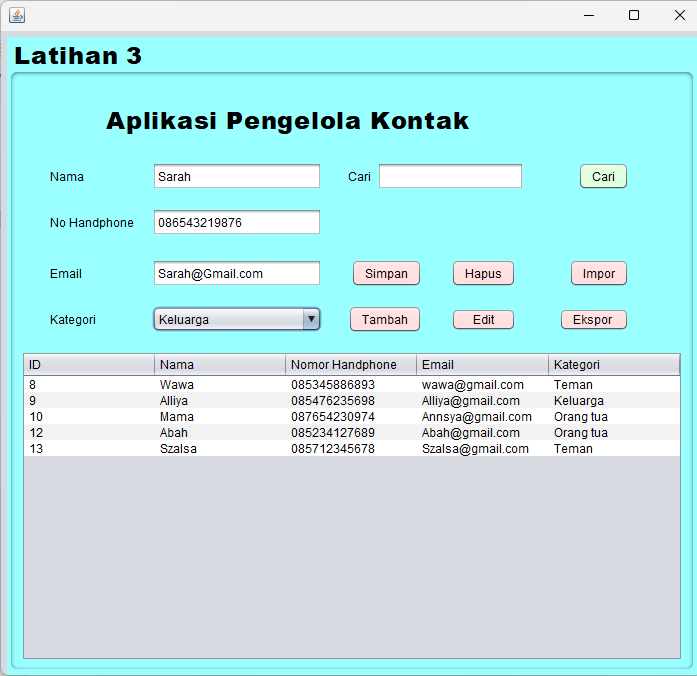
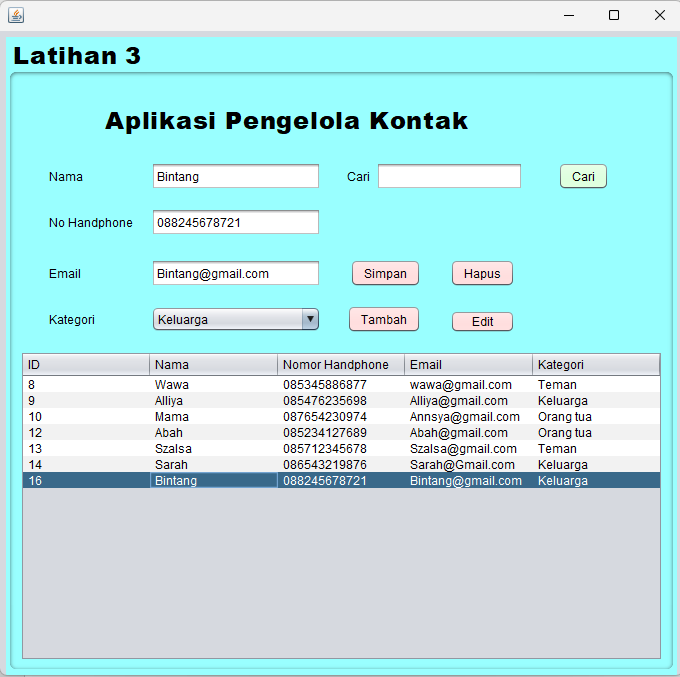
Menambahkan Perbaikan

diff --git a/src/PengelolaKontak.java b/src/PengelolaKontak.java
@@ -51,8 +51,6 @@ public class PengelolaKontak extends javax.swing.JFrame {
         txfCari = new javax.swing.JTextField();
         btnCari = new javax.swing.JButton();
         btnSimpan = new javax.swing.JButton();
-        btnImpor = new javax.swing.JButton();
-        btnEkspor = new javax.swing.JButton();
 
         jButton2.setText("jButton2");
 
@@ -118,6 +116,11 @@ public class PengelolaKontak extends javax.swing.JFrame {
             public void ancestorRemoved(javax.swing.event.AncestorEvent evt) {
             }
         });
+        jTable1.addMouseListener(new java.awt.event.MouseAdapter() {
+            public void mouseClicked(java.awt.event.MouseEvent evt) {
+                jTable1MouseClicked(evt);
+            }
+        });
         jScrollPane1.setViewportView(jTable1);
 
         jLabel6.setText("Cari");
@@ -141,22 +144,6 @@ public class PengelolaKontak extends javax.swing.JFrame {
         btnSimpan.addActionListener(new java.awt.event.ActionListener() {
             public void actionPerformed(java.awt.event.ActionEvent evt) {
                 btnSimpanActionPerformed(evt);
-            }
-        });
-
-        btnImpor.setBackground(new java.awt.Color(255, 204, 204));
-        btnImpor.setText("Impor");
-        btnImpor.addActionListener(new java.awt.event.ActionListener() {
-            public void actionPerformed(java.awt.event.ActionEvent evt) {
-                btnImporActionPerformed(evt);
-            }
-        });
-
-        btnEkspor.setBackground(new java.awt.Color(255, 204, 204));
-        btnEkspor.setText("Ekspor ");
-        btnEkspor.addActionListener(new java.awt.event.ActionListener() {
-            public void actionPerformed(java.awt.event.ActionEvent evt) {
-                btnEksporActionPerformed(evt);
             }
         });
 
@@ -197,10 +184,7 @@ public class PengelolaKontak extends javax.swing.JFrame {
                             .addComponent(btnHapus, javax.swing.GroupLayout.DEFAULT_SIZE, javax.swing.GroupLayout.DEFAULT_SIZE, Short.MAX_VALUE)
                             .addComponent(btnEdit, javax.swing.GroupLayout.DEFAULT_SIZE, javax.swing.GroupLayout.DEFAULT_SIZE, Short.MAX_VALUE))))
                 .addPreferredGap(javax.swing.LayoutStyle.ComponentPlacement.RELATED, 35, Short.MAX_VALUE)
-                .addGroup(jPanel1Layout.createParallelGroup(javax.swing.GroupLayout.Alignment.LEADING)
-                    .addComponent(btnImpor, javax.swing.GroupLayout.Alignment.TRAILING)
-                    .addComponent(btnEkspor, javax.swing.GroupLayout.Alignment.TRAILING)
-                    .addComponent(btnCari, javax.swing.GroupLayout.Alignment.TRAILING))
+                .addComponent(btnCari)
                 .addGap(54, 54, 54))
         );
         jPanel1Layout.setVerticalGroup(
@@ -224,15 +208,14 @@ public class PengelolaKontak extends javax.swing.JFrame {
                     .addComponent(txfEmail, javax.swing.GroupLayout.PREFERRED_SIZE, javax.swing.GroupLayout.DEFAULT_SIZE, javax.swing.GroupLayout.PREFERRED_SIZE)
                     .addComponent(jLabel4)
                     .addComponent(btnSimpan)
-                    .addComponent(btnHapus)
-                    .addComponent(btnImpor))
+                    .addComponent(btnHapus))
                 .addGap(18, 18, 18)
-                .addGroup(jPanel1Layout.createParallelGroup(javax.swing.GroupLayout.Alignment.BASELINE)
-                    .addComponent(cbKategori, javax.swing.GroupLayout.PREFERRED_SIZE, javax.swing.GroupLayout.DEFAULT_SIZE, javax.swing.GroupLayout.PREFERRED_SIZE)
-                    .addComponent(jLabel5)
-                    .addComponent(btnEdit, javax.swing.GroupLayout.PREFERRED_SIZE, 23, javax.swing.GroupLayout.PREFERRED_SIZE)
-                    .addComponent(btnTambah)
-                    .addComponent(btnEkspor, javax.swing.GroupLayout.PREFERRED_SIZE, 23, javax.swing.GroupLayout.PREFERRED_SIZE))
+                .addGroup(jPanel1Layout.createParallelGroup(javax.swing.GroupLayout.Alignment.LEADING)
+                    .addComponent(btnEdit, javax.swing.GroupLayout.Alignment.TRAILING, javax.swing.GroupLayout.PREFERRED_SIZE, 23, javax.swing.GroupLayout.PREFERRED_SIZE)
+                    .addGroup(jPanel1Layout.createParallelGroup(javax.swing.GroupLayout.Alignment.BASELINE)
+                        .addComponent(cbKategori, javax.swing.GroupLayout.PREFERRED_SIZE, javax.swing.GroupLayout.DEFAULT_SIZE, javax.swing.GroupLayout.PREFERRED_SIZE)
+                        .addComponent(jLabel5)
+                        .addComponent(btnTambah)))
                 .addGap(18, 18, 18)
                 .addComponent(jScrollPane1, javax.swing.GroupLayout.DEFAULT_SIZE, 310, Short.MAX_VALUE))
         );
@@ -457,13 +440,16 @@ private void simpanDataKeCSV() {
     }
     }//GEN-LAST:event_btnSimpanActionPerformed
 
-    private void btnImporActionPerformed(java.awt.event.ActionEvent evt) {//GEN-FIRST:event_btnImporActionPerformed
-        
-    }//GEN-LAST:event_btnImporActionPerformed
-
-    private void btnEksporActionPerformed(java.awt.event.ActionEvent evt) {//GEN-FIRST:event_btnEksporActionPerformed
-        
-    }//GEN-LAST:event_btnEksporActionPerformed
+    private void jTable1MouseClicked(java.awt.event.MouseEvent evt) {//GEN-FIRST:event_jTable1MouseClicked
+        int row = jTable1.getSelectedRow();
+        if (row != -1) {
+            // Isi form berdasarkan data di tabel
+            txfNama.setText(jTable1.getValueAt(row, 1).toString()); // Asumsi kolom 1 adalah nama
+            txfNo.setText(jTable1.getValueAt(row, 2).toString());   // Asumsi kolom 2 adalah no handphone
+            txfEmail.setText(jTable1.getValueAt(row, 3).toString());// Asumsi kolom 3 adalah email
+            cbKategori.setSelectedItem(jTable1.getValueAt(row, 4).toString()); // Asumsi kolom 4 adalah kategori
+        }
+    }//GEN-LAST:event_jTable1MouseClicked
 
     /**
      * @param args the command line arguments
@@ -503,9 +489,7 @@ private void simpanDataKeCSV() {
     // Variables declaration - do not modify//GEN-BEGIN:variables
     private javax.swing.JButton btnCari;
     private javax.swing.JButton btnEdit;
-    private javax.swing.JButton btnEkspor;
     private javax.swing.JButton btnHapus;
-    private javax.swing.JButton btnImpor;
     private javax.swing.JButton btnSimpan;
     private javax.swing.JButton btnTambah;
     private javax.swing.JComboBox<String> cbKategori;

diff --git a/src/databaseHelper.java b/src/databaseHelper.java
@@ -1,5 +1,10 @@
 import java.sql.*;
 import javax.swing.JOptionPane;
+import java.sql.Connection;
+import java.sql.DriverManager;
+import java.sql.PreparedStatement;
+import java.sql.SQLException;
+
 
 public class databaseHelper {
 
